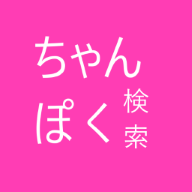
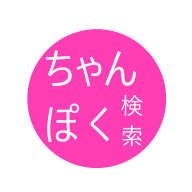
twitterのpwaを参考に、192と512の丸のみを利用。purposeを削除

diff --git a/dere-pose-search/search.html b/dere-pose-search/search.html
@@ -26,7 +26,7 @@
     <script src="js/hammer.min.js"></script>
     <script src="js/jquery.hammer.js"></script>
     <link rel="stylesheet" href="css/style.css?20190618" >
-    <link rel="manifest" href="manifest.json?20190831">
+    <link rel="manifest" href="manifest.json?20190903-1">
     <link rel="apple-touch-icon" href="ico/ico-144.png" sizes="144x144">
     <link rel="apple-touch-icon" href="ico/ico-152.png" sizes="152x152">
     <link rel="apple-touch-icon" href="ico/ico-180.png" sizes="180x180">
